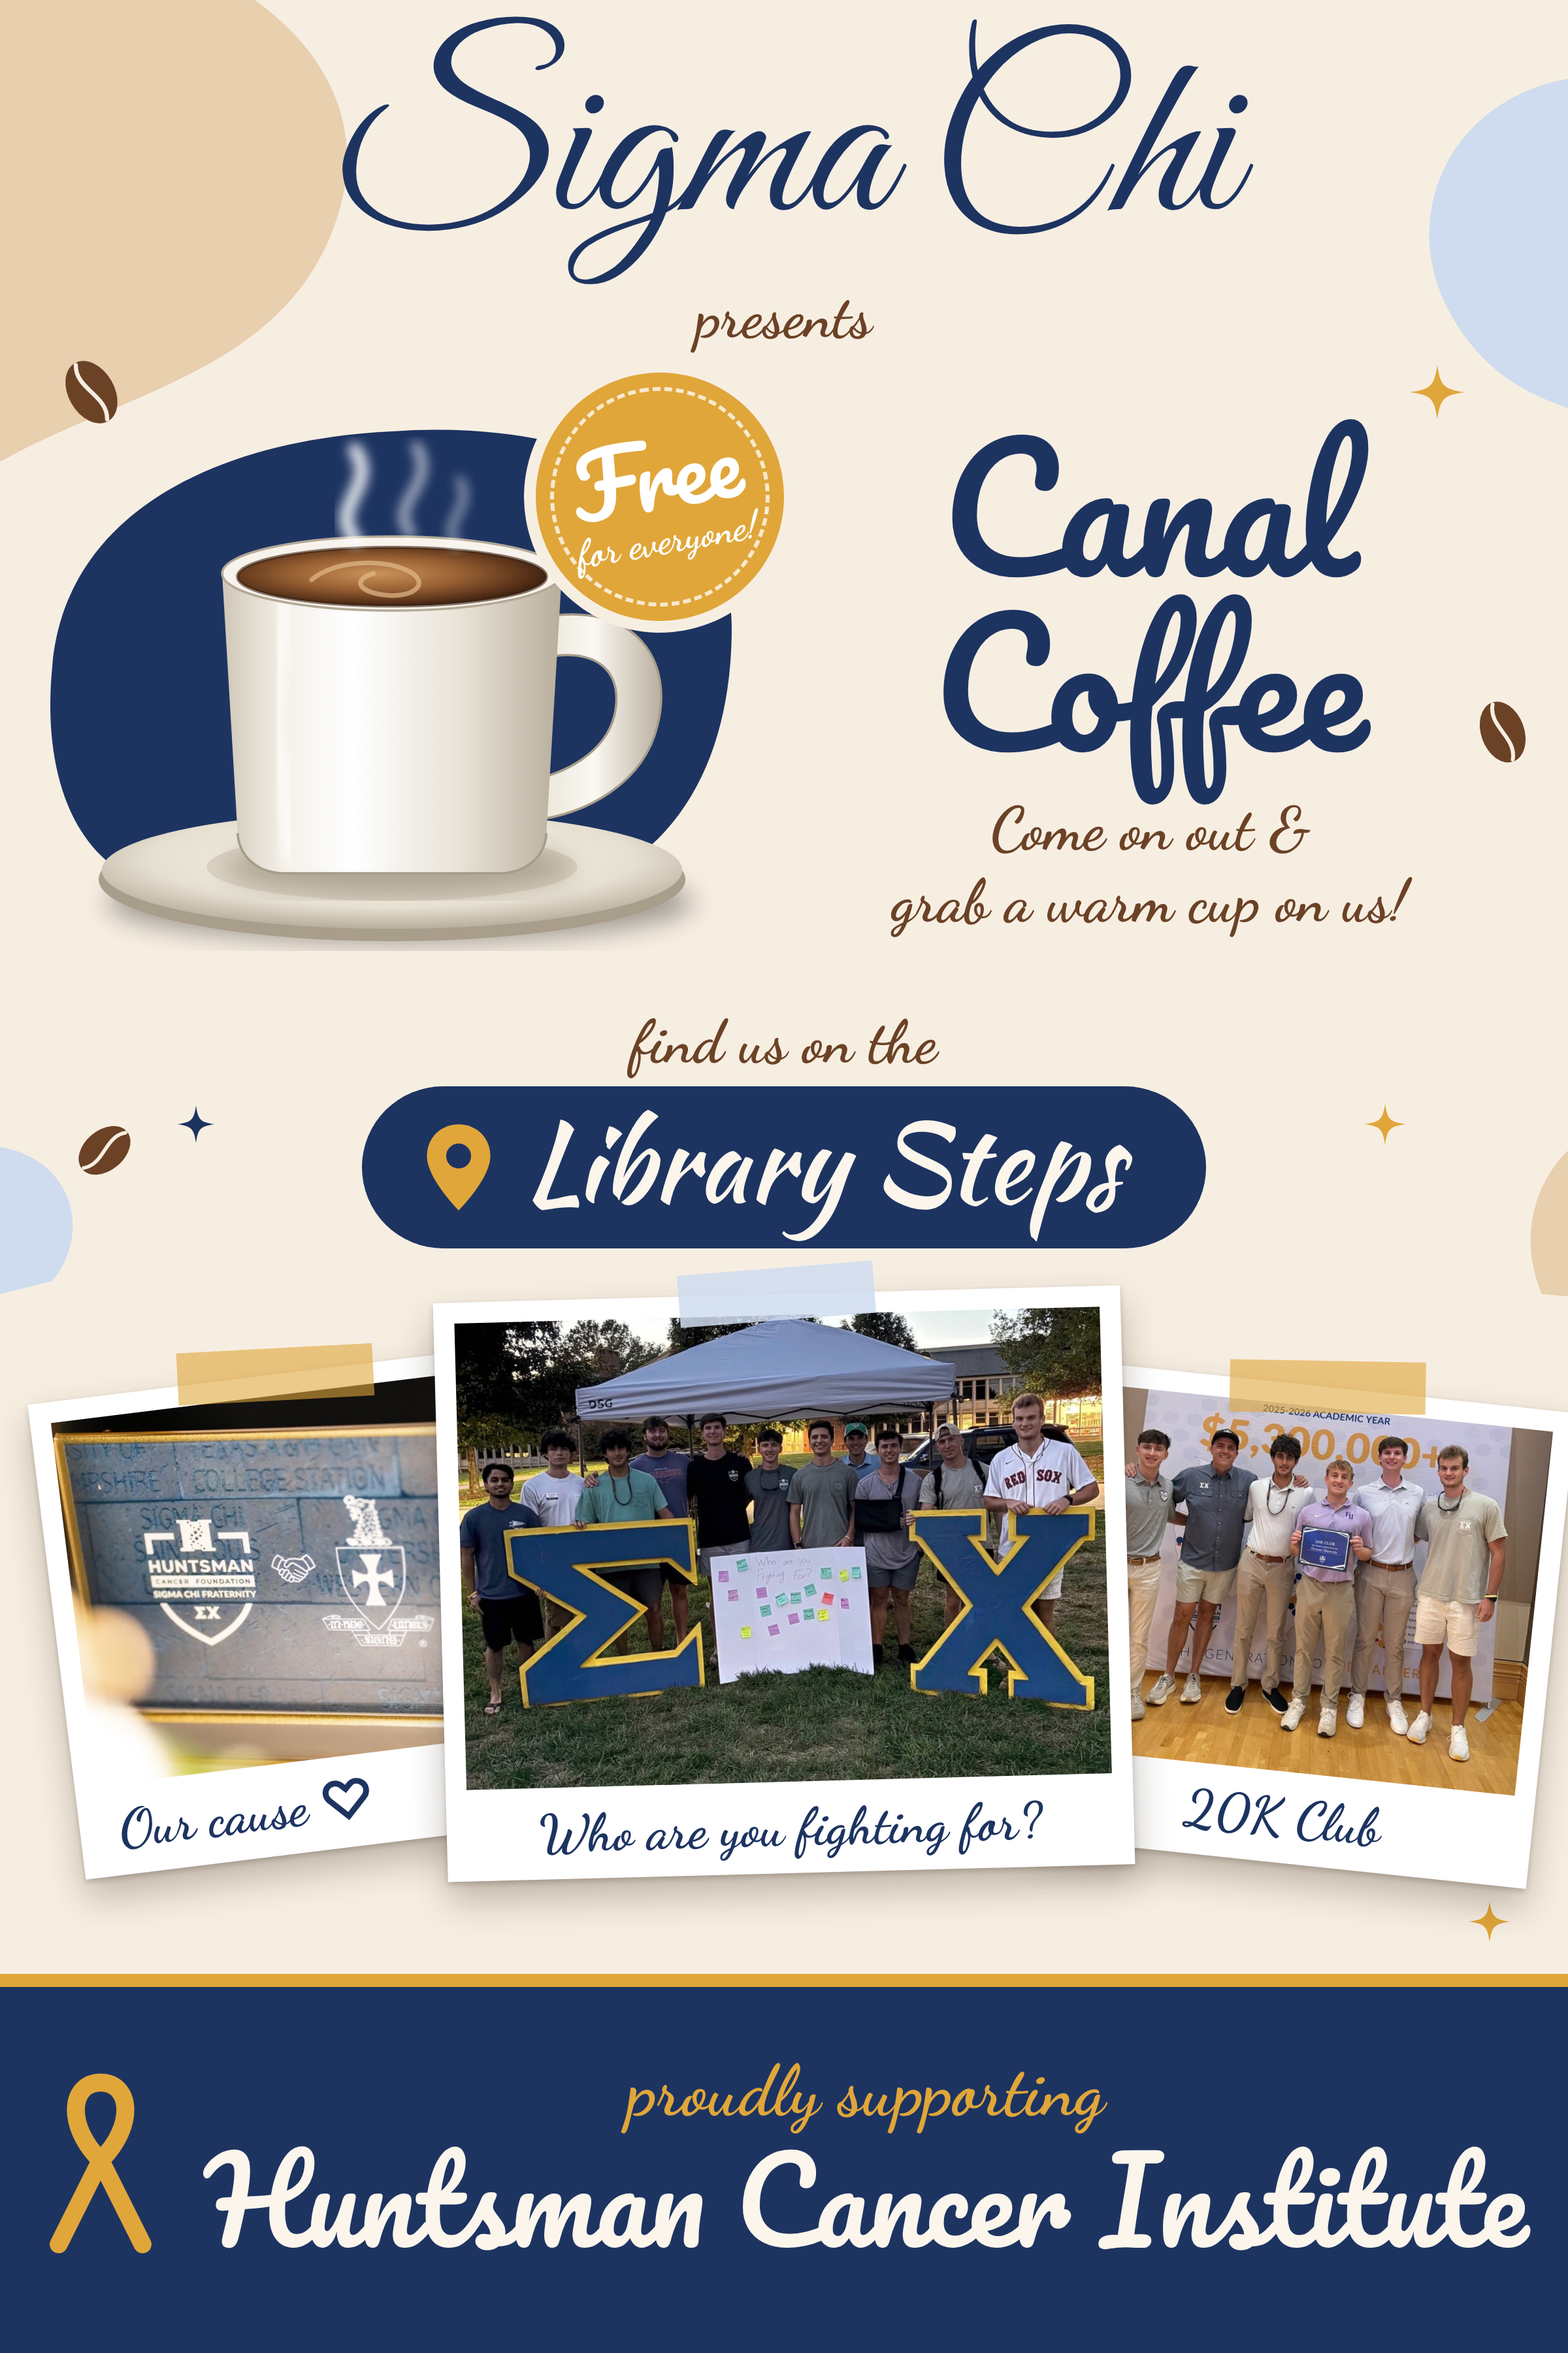
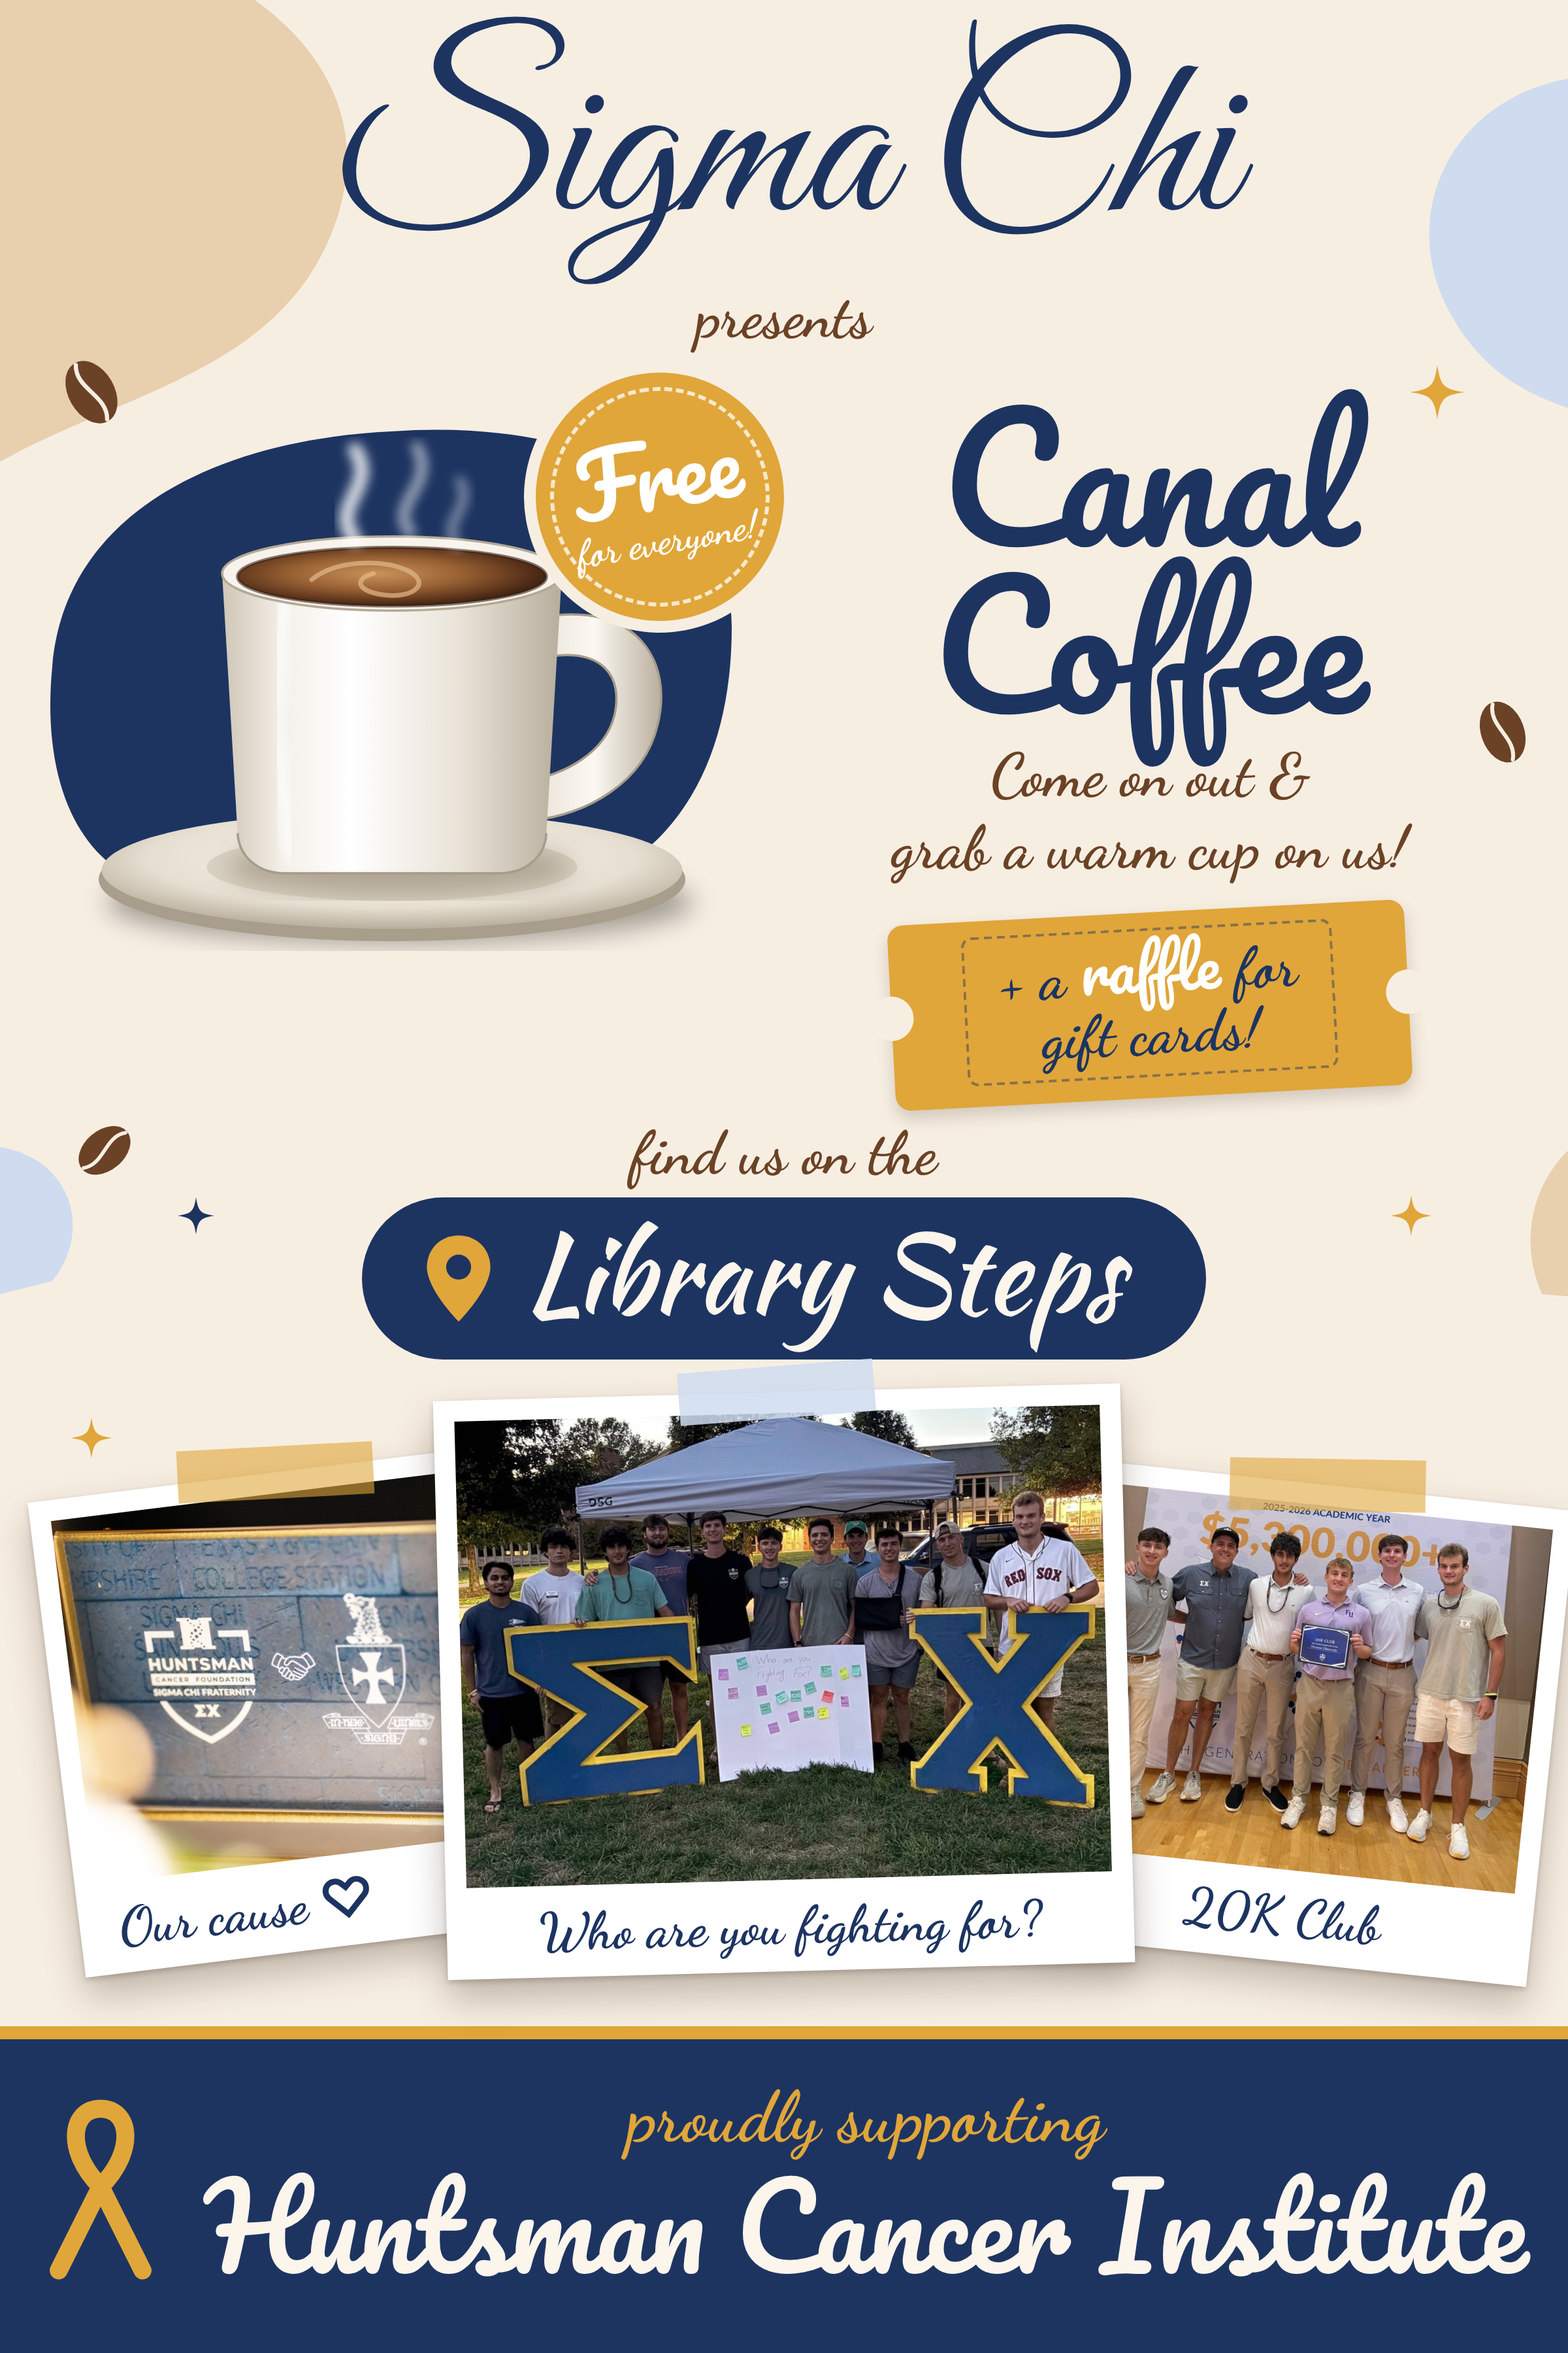
Add gift card raffle callout to poster
Claude-Session: https://claude.ai/code/session_017HSKiMjUtMhEwVyVNB6uJx

diff --git a/canal-coffee-poster/poster.html b/canal-coffee-poster/poster.html
@@ -15,10 +15,15 @@
   .sticker::before{content:"";position:absolute;inset:11px;border:3px dashed rgba(255,255,255,.75);border-radius:50%}
   .sticker b{font-family:'Pacifico',cursive;font-weight:400;font-size:66px;line-height:1}
   .sticker i{font-family:'Dancing Script',cursive;font-style:normal;font-weight:700;font-size:30px}
-  .headline{left:600px;top:320px;width:560px;text-align:center}
-  .headline .brand{font-family:'Pacifico',cursive;font-size:128px;line-height:1.05}
-  .headline .tag{font-family:'Dancing Script',cursive;font-weight:700;font-size:46px;line-height:1.2;color:var(--brown);margin-top:18px}
-  .where{left:0;right:0;top:770px;text-align:center}
+  .headline{left:600px;top:300px;width:560px;text-align:center}
+  .headline .brand{font-family:'Pacifico',cursive;font-size:128px;line-height:1}
+  .headline .tag{font-family:'Dancing Script',cursive;font-weight:700;font-size:46px;line-height:1.2;color:var(--brown);margin-top:10px}
+  .ticket{position:relative;display:inline-block;margin-top:22px;background:var(--gold);color:var(--ink);border-radius:12px;padding:12px 56px 16px;transform:rotate(-3deg);box-shadow:0 6px 12px rgba(40,25,10,.18)}
+  .ticket::before,.ticket::after{content:"";position:absolute;top:50%;width:34px;height:34px;margin-top:-17px;border-radius:50%;background:#f7eee2}
+  .ticket::before{left:-17px}.ticket::after{right:-17px}
+  .ticket span{display:block;border:2px dashed rgba(29,52,97,.45);border-radius:8px;padding:4px 26px 8px;font-family:'Dancing Script',cursive;font-weight:700;font-size:44px;line-height:1.05}
+  .ticket b{font-family:'Pacifico',cursive;font-weight:400;font-size:46px;color:#fff}
+  .where{left:0;right:0;top:855px;text-align:center}
   .where .find{font-family:'Dancing Script',cursive;font-weight:700;font-size:46px;color:var(--brown)}
   .pill{display:inline-flex;align-items:center;gap:24px;background:var(--ink);color:var(--cream);border-radius:999px;
     padding:16px 64px 24px 48px;margin-top:6px;font-family:'Kaushan Script',cursive;font-size:84px;line-height:1}
@@ -27,11 +32,11 @@
   .pol img{display:block}
   .pol p{margin:0;height:70px;line-height:70px;text-align:center;font-family:'Dancing Script',cursive;font-weight:700;font-size:40px;color:var(--ink)}
   .tape{position:absolute;width:150px;height:40px;background:rgba(224,166,58,.6);top:-20px;left:50%;margin-left:-75px}
-  .p1{left:42px;top:1050px;transform:rotate(-7deg)} .p1 img{width:350px;height:280px}
-  .p3{left:806px;top:1060px;transform:rotate(6deg)} .p3 img{width:350px;height:280px}
-  .p2{left:337px;top:990px;transform:rotate(-1.5deg);z-index:2} .p2 img{width:494px;height:357px}
+  .p1{left:42px;top:1125px;transform:rotate(-7deg)} .p1 img{width:350px;height:280px}
+  .p3{left:806px;top:1135px;transform:rotate(6deg)} .p3 img{width:350px;height:280px}
+  .p2{left:337px;top:1065px;transform:rotate(-1.5deg);z-index:2} .p2 img{width:494px;height:357px}
   .p2 .tape{transform:rotate(-3deg);background:rgba(207,220,239,.85)}
-  .band{left:0;right:0;bottom:0;height:290px;background:var(--ink);color:var(--cream);display:flex;align-items:center;justify-content:center;gap:34px}
+  .band{left:0;right:0;bottom:0;height:250px;background:var(--ink);color:var(--cream);display:flex;align-items:center;justify-content:center;gap:34px}
   .band::before{content:"";position:absolute;left:0;right:0;top:0;height:10px;background:var(--gold)}
   .band svg{width:92px;height:142px}
   .band .t{text-align:center}
@@ -54,9 +59,9 @@
     <use href="#bean" transform="translate(1150 560) rotate(-20) scale(.75)"/>
     <use href="#bean" transform="translate(80 880) rotate(50) scale(.7)"/>
     <use href="#spark" fill="#e0a63a" transform="translate(1100 300) scale(.8)"/>
-    <use href="#spark" fill="#1d3461" transform="translate(150 860) scale(.55)"/>
-    <use href="#spark" fill="#e0a63a" transform="translate(1060 860) scale(.6)"/>
-    <use href="#spark" fill="#e0a63a" transform="translate(1140 1470) scale(.6)"/>
+    <use href="#spark" fill="#1d3461" transform="translate(150 930) scale(.55)"/>
+    <use href="#spark" fill="#e0a63a" transform="translate(1080 930) scale(.6)"/>
+    <use href="#spark" fill="#e0a63a" transform="translate(70 1100) scale(.6)"/>
   </svg>
 
   <div class="abs sigma">Sigma Chi</div>
@@ -100,6 +105,7 @@
   <div class="abs headline">
     <div class="brand">Canal<br>Coffee</div>
     <div class="tag">Come on out &amp;<br>grab a warm cup on us!</div>
+    <div class="ticket"><span>+ a <b>raffle</b> for<br>gift cards!</span></div>
   </div>
 
   <div class="abs where">
